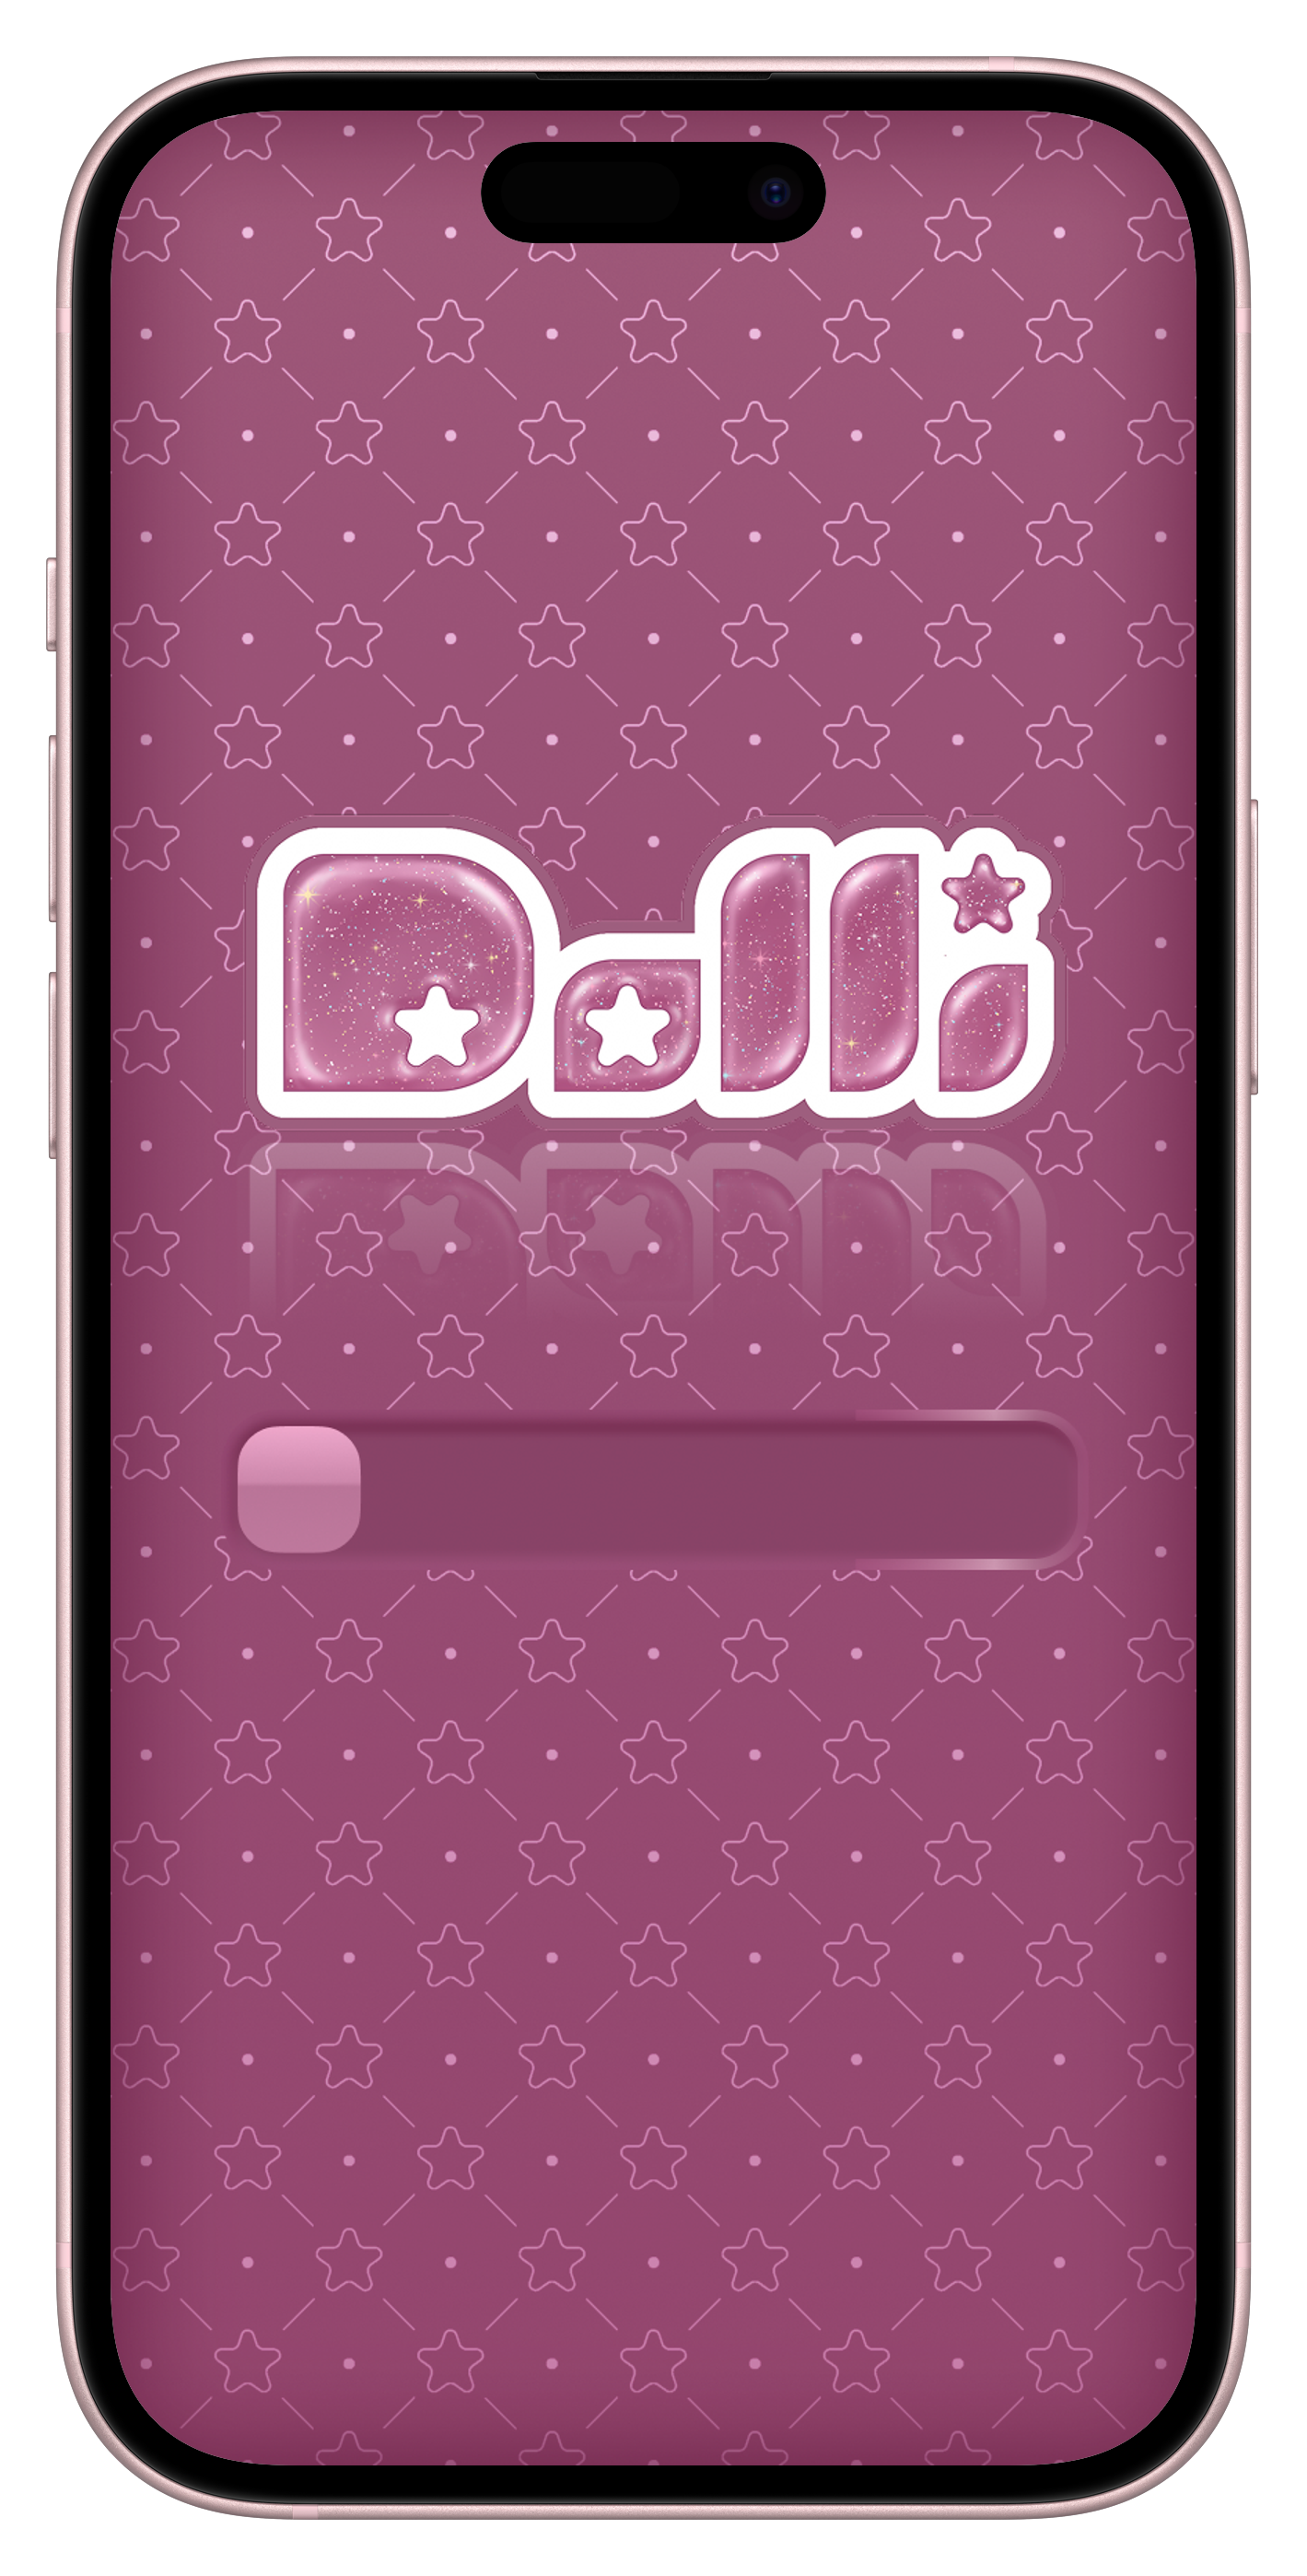
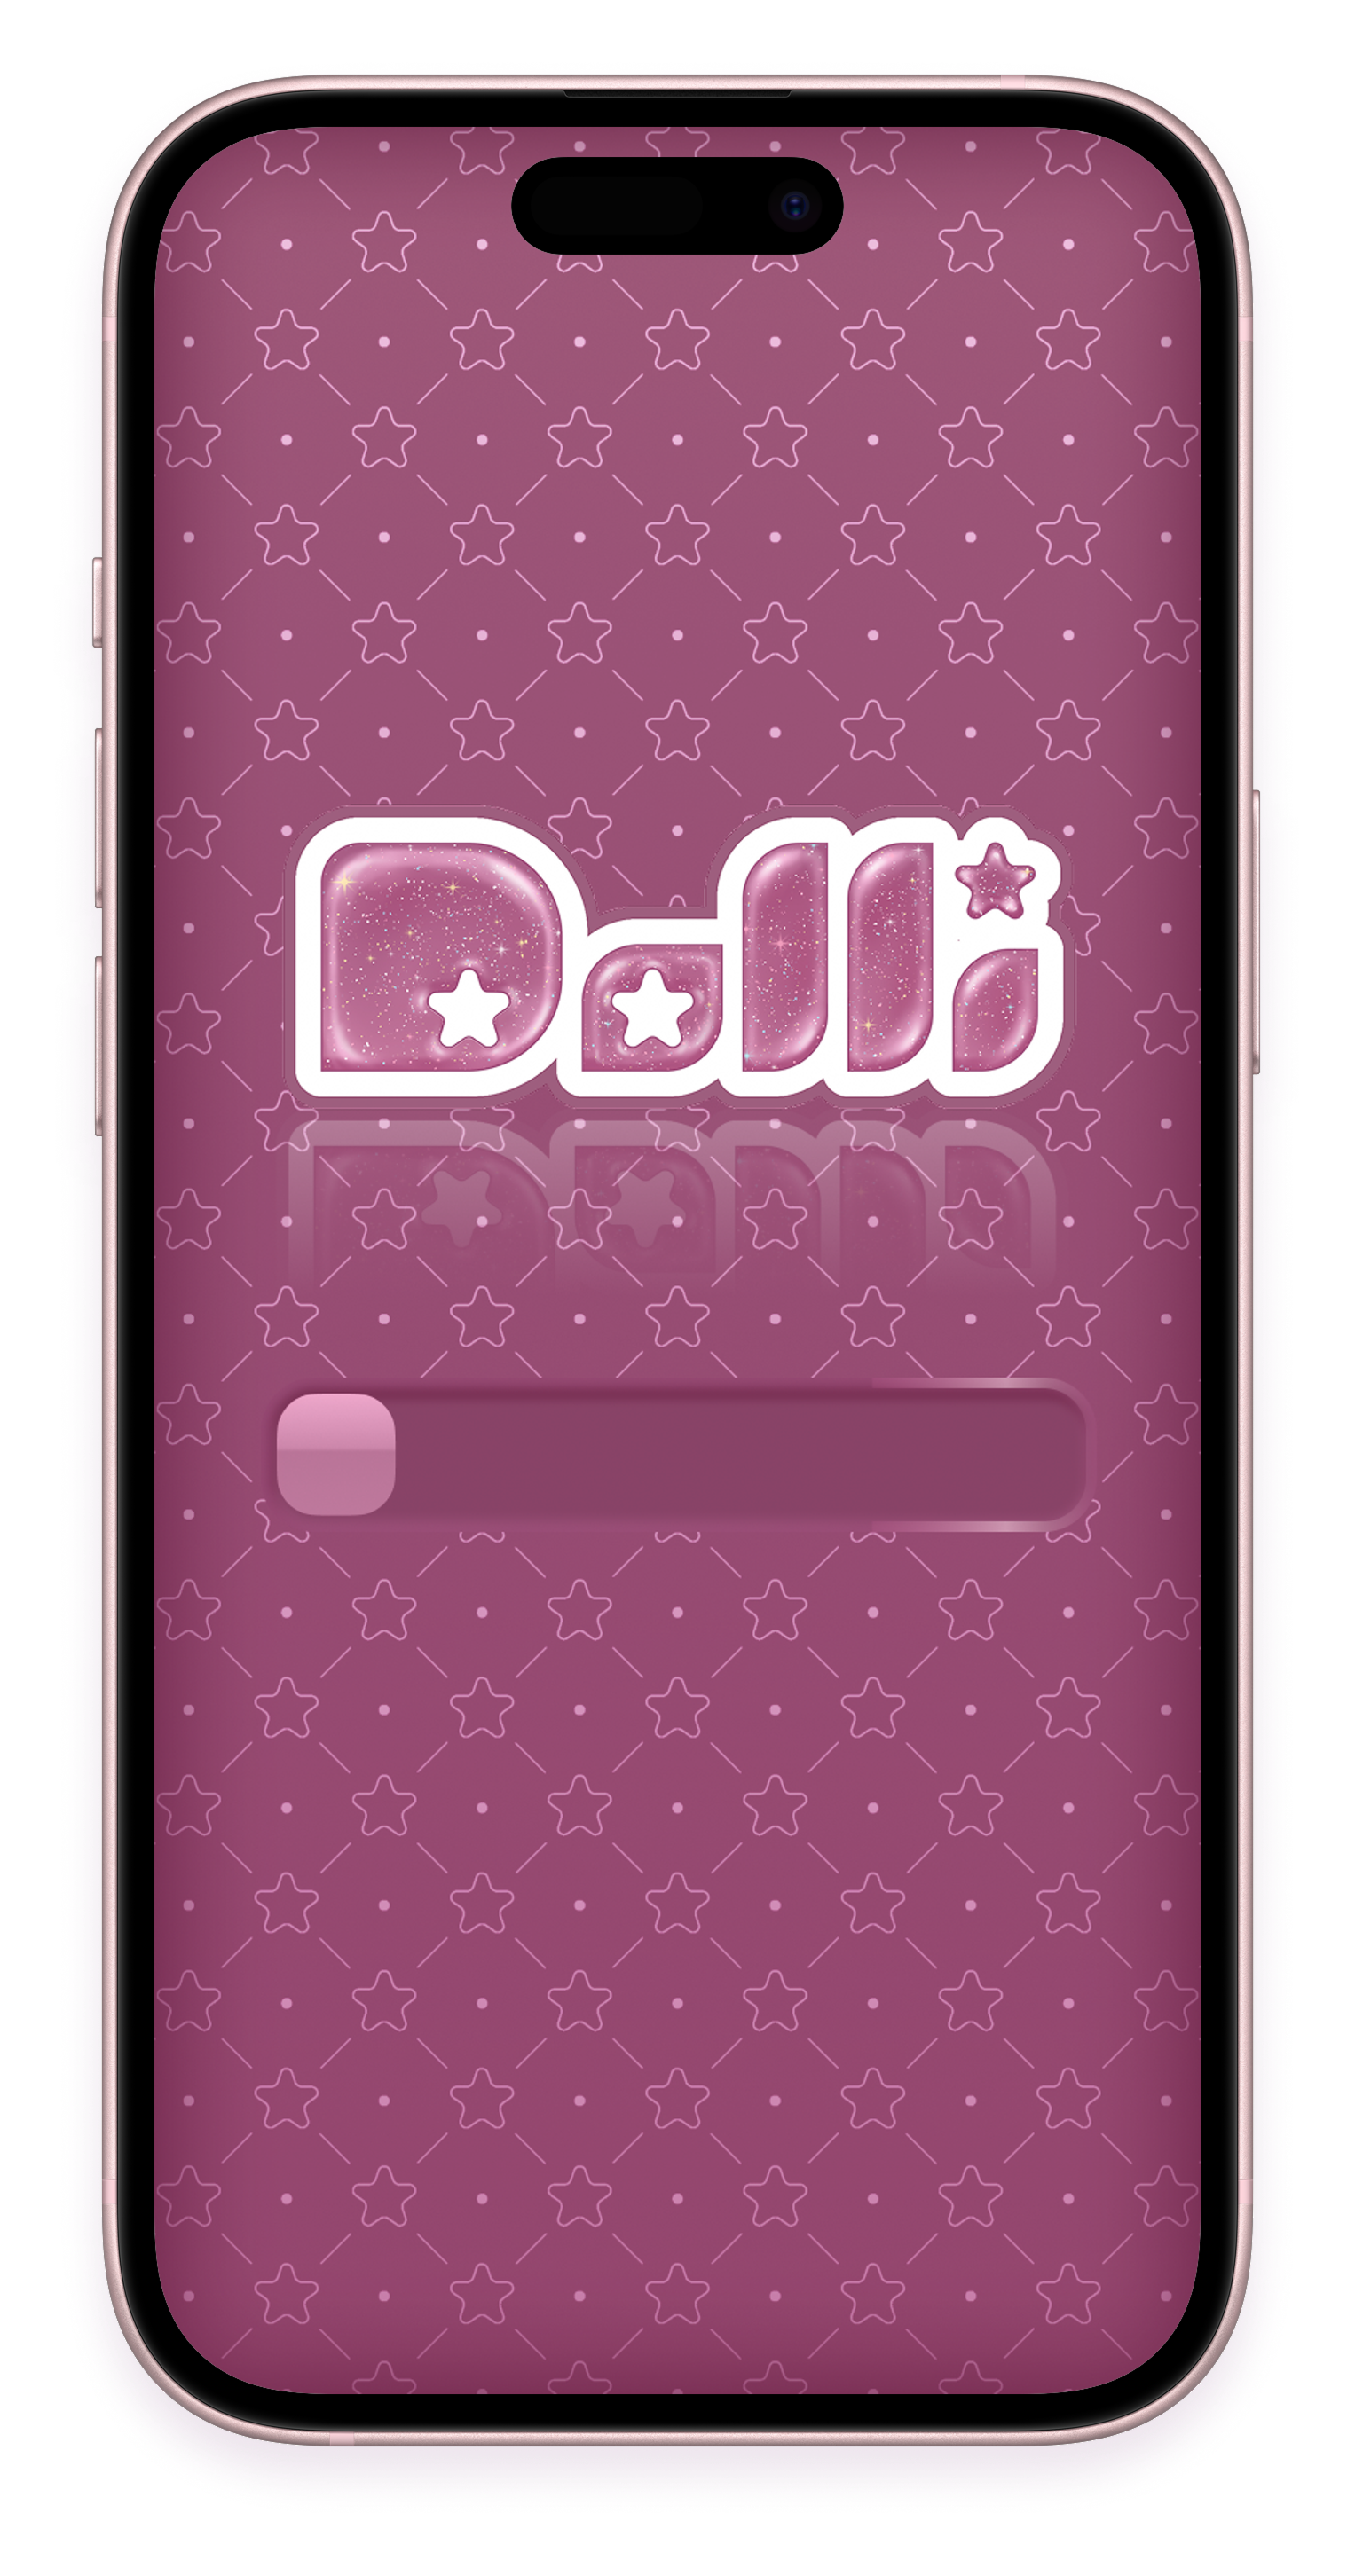
Edit

diff --git a/coursework.html b/coursework.html
@@ -639,10 +639,10 @@ function closeForm() {
     
         <div class="scrolldots" id="uxdots" aria-label="Scroll position"></div>
         <div class="galleryslidesux" id="uxslides">
-      <section class="gallery" style="margin-left:15px">
+      <section class="gallery" style="margin-left:7px">
             <a href="dolli.html" style="text-decoration: none; color:black"> <div>
-           <img  style="max-width: 143px; margin-top: 8px;" src="images/dollimobile.png" class="piccontainer" alt="Dolli app mobile screen"/>
-            <p style="margin-top:8px"><b class="links">Dolli</b></p>
+           <img  style="max-width: 153px; margin-top: 8px;" src="images/dollimobile.png" class="piccontainer" alt="Dolli app mobile screen"/>
+            <p style="margin-top:-1px"><b class="links">Dolli</b></p>
             <p style="font-size:small;margin-top:-15px;">Blog</p>
             </div></a>
             <a class="linkbutton" target="_blank" rel="noopener" style="text-decoration: none;width:100%;" href="https://www.figma.com/proto/TljZGiUfTqPP7d7XkWqEzk/MobileDolls?node-id=2043-1267&t=6CUYs28Y2XMkpWXT-1&scaling=scale-down&content-scaling=fixed&page-id=0%3A1&starting-point-node-id=3104%3A8499&show-proto-sidebar=1">